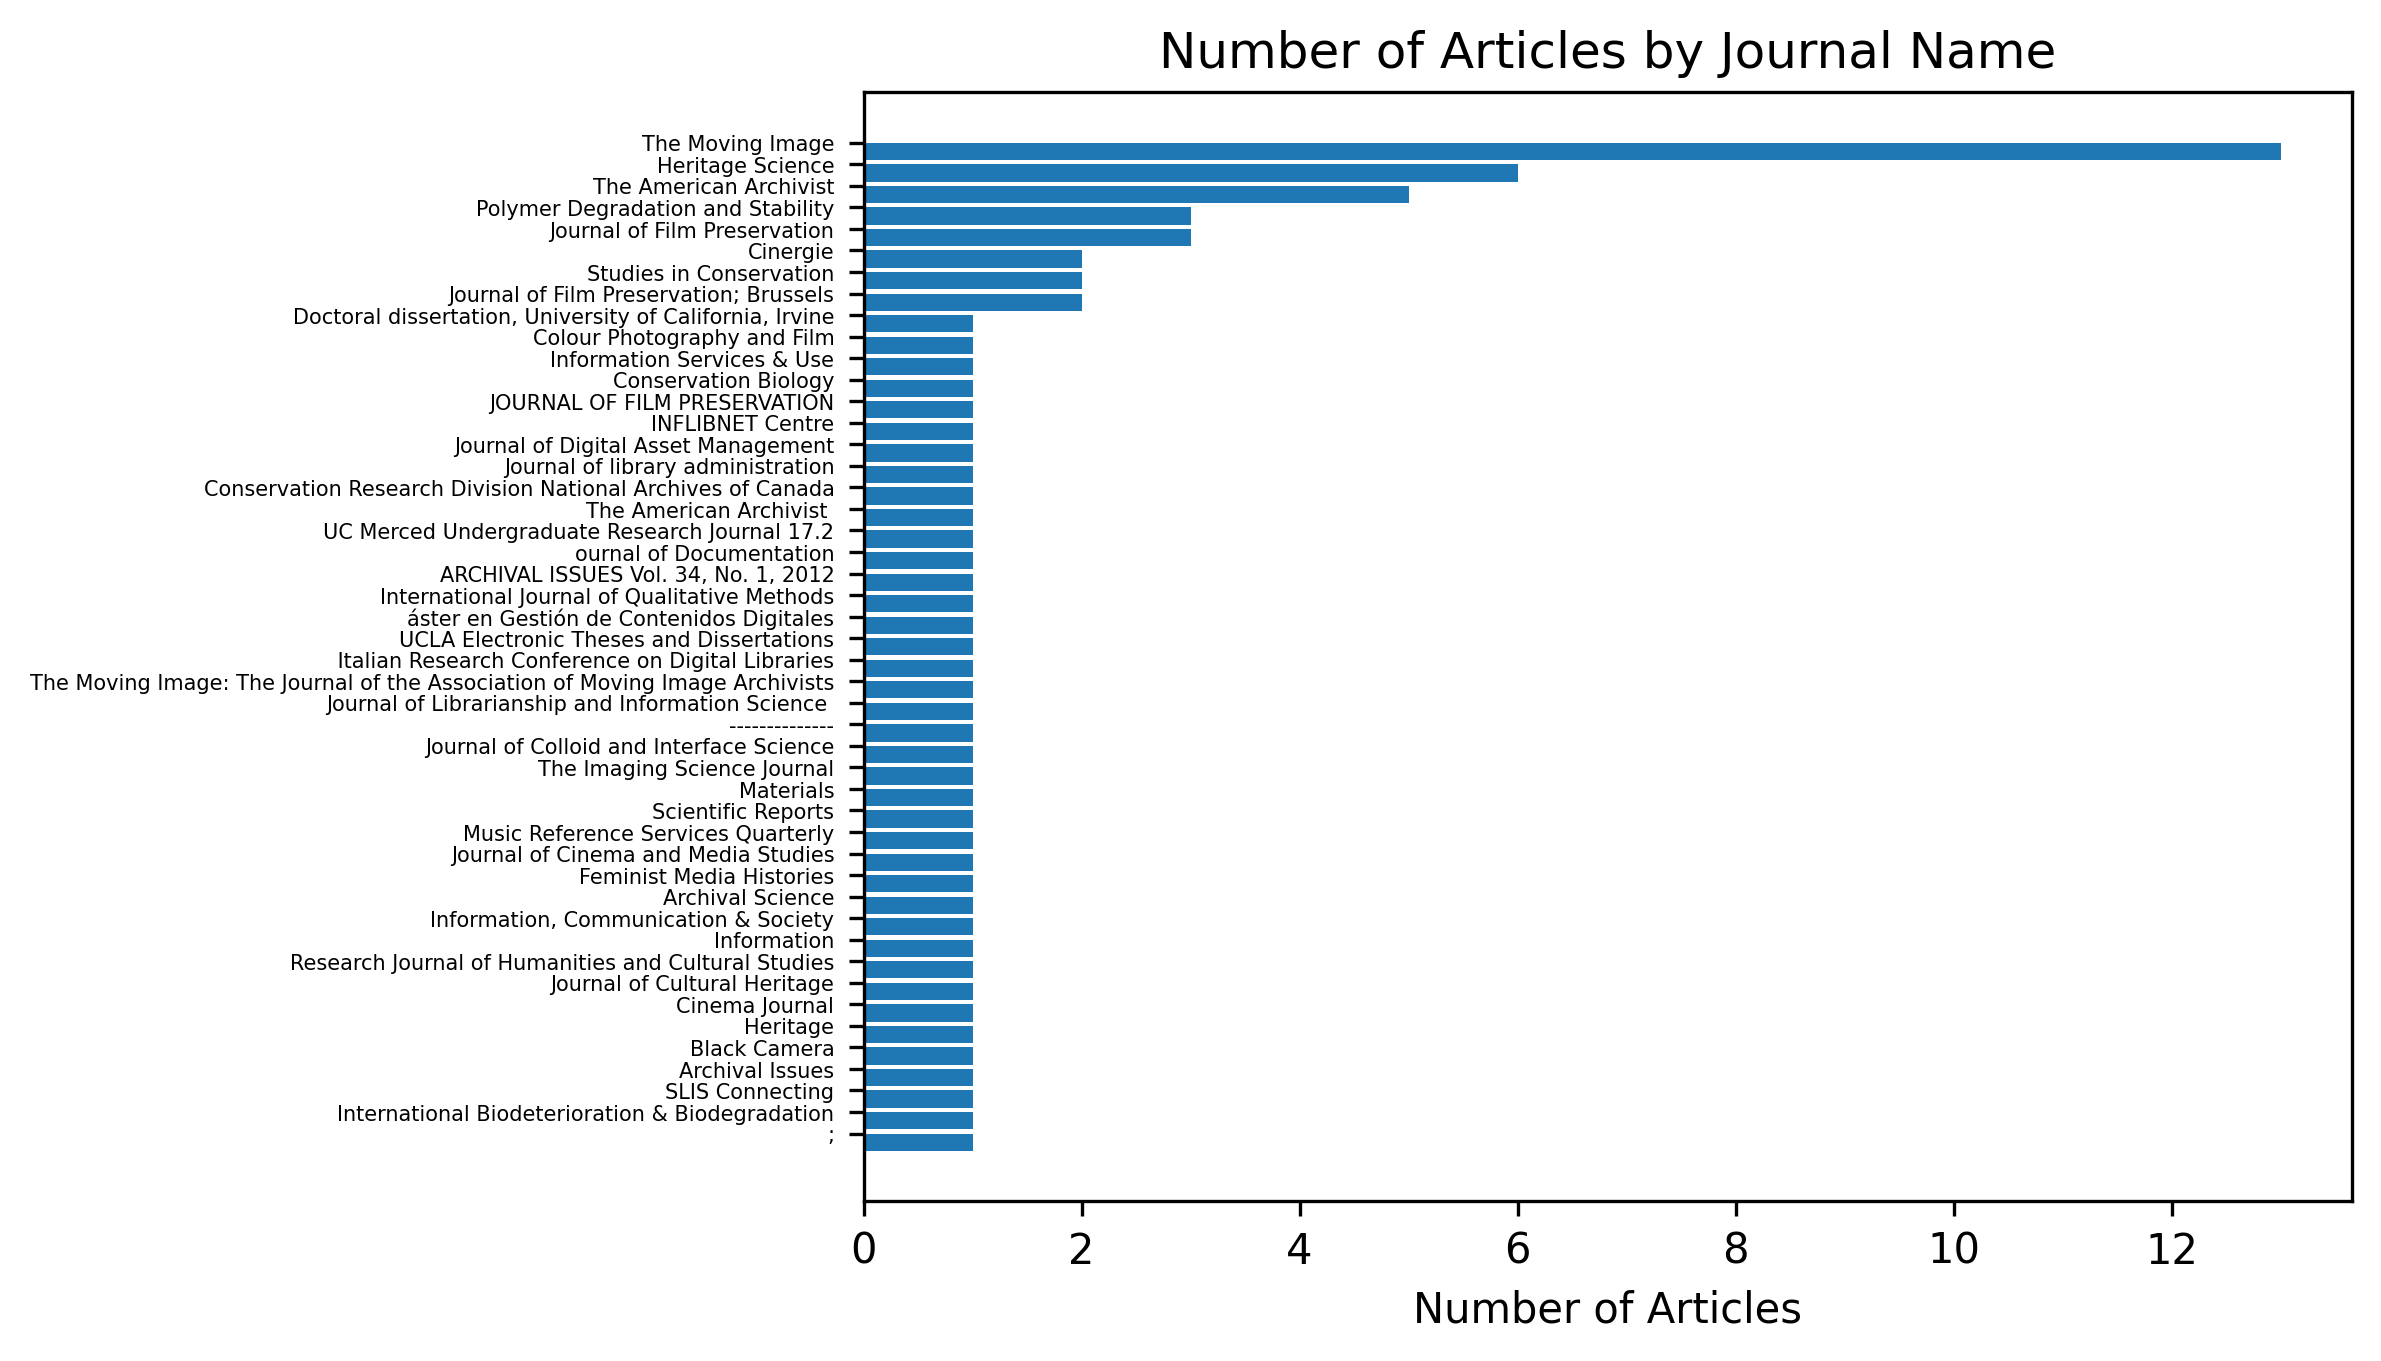
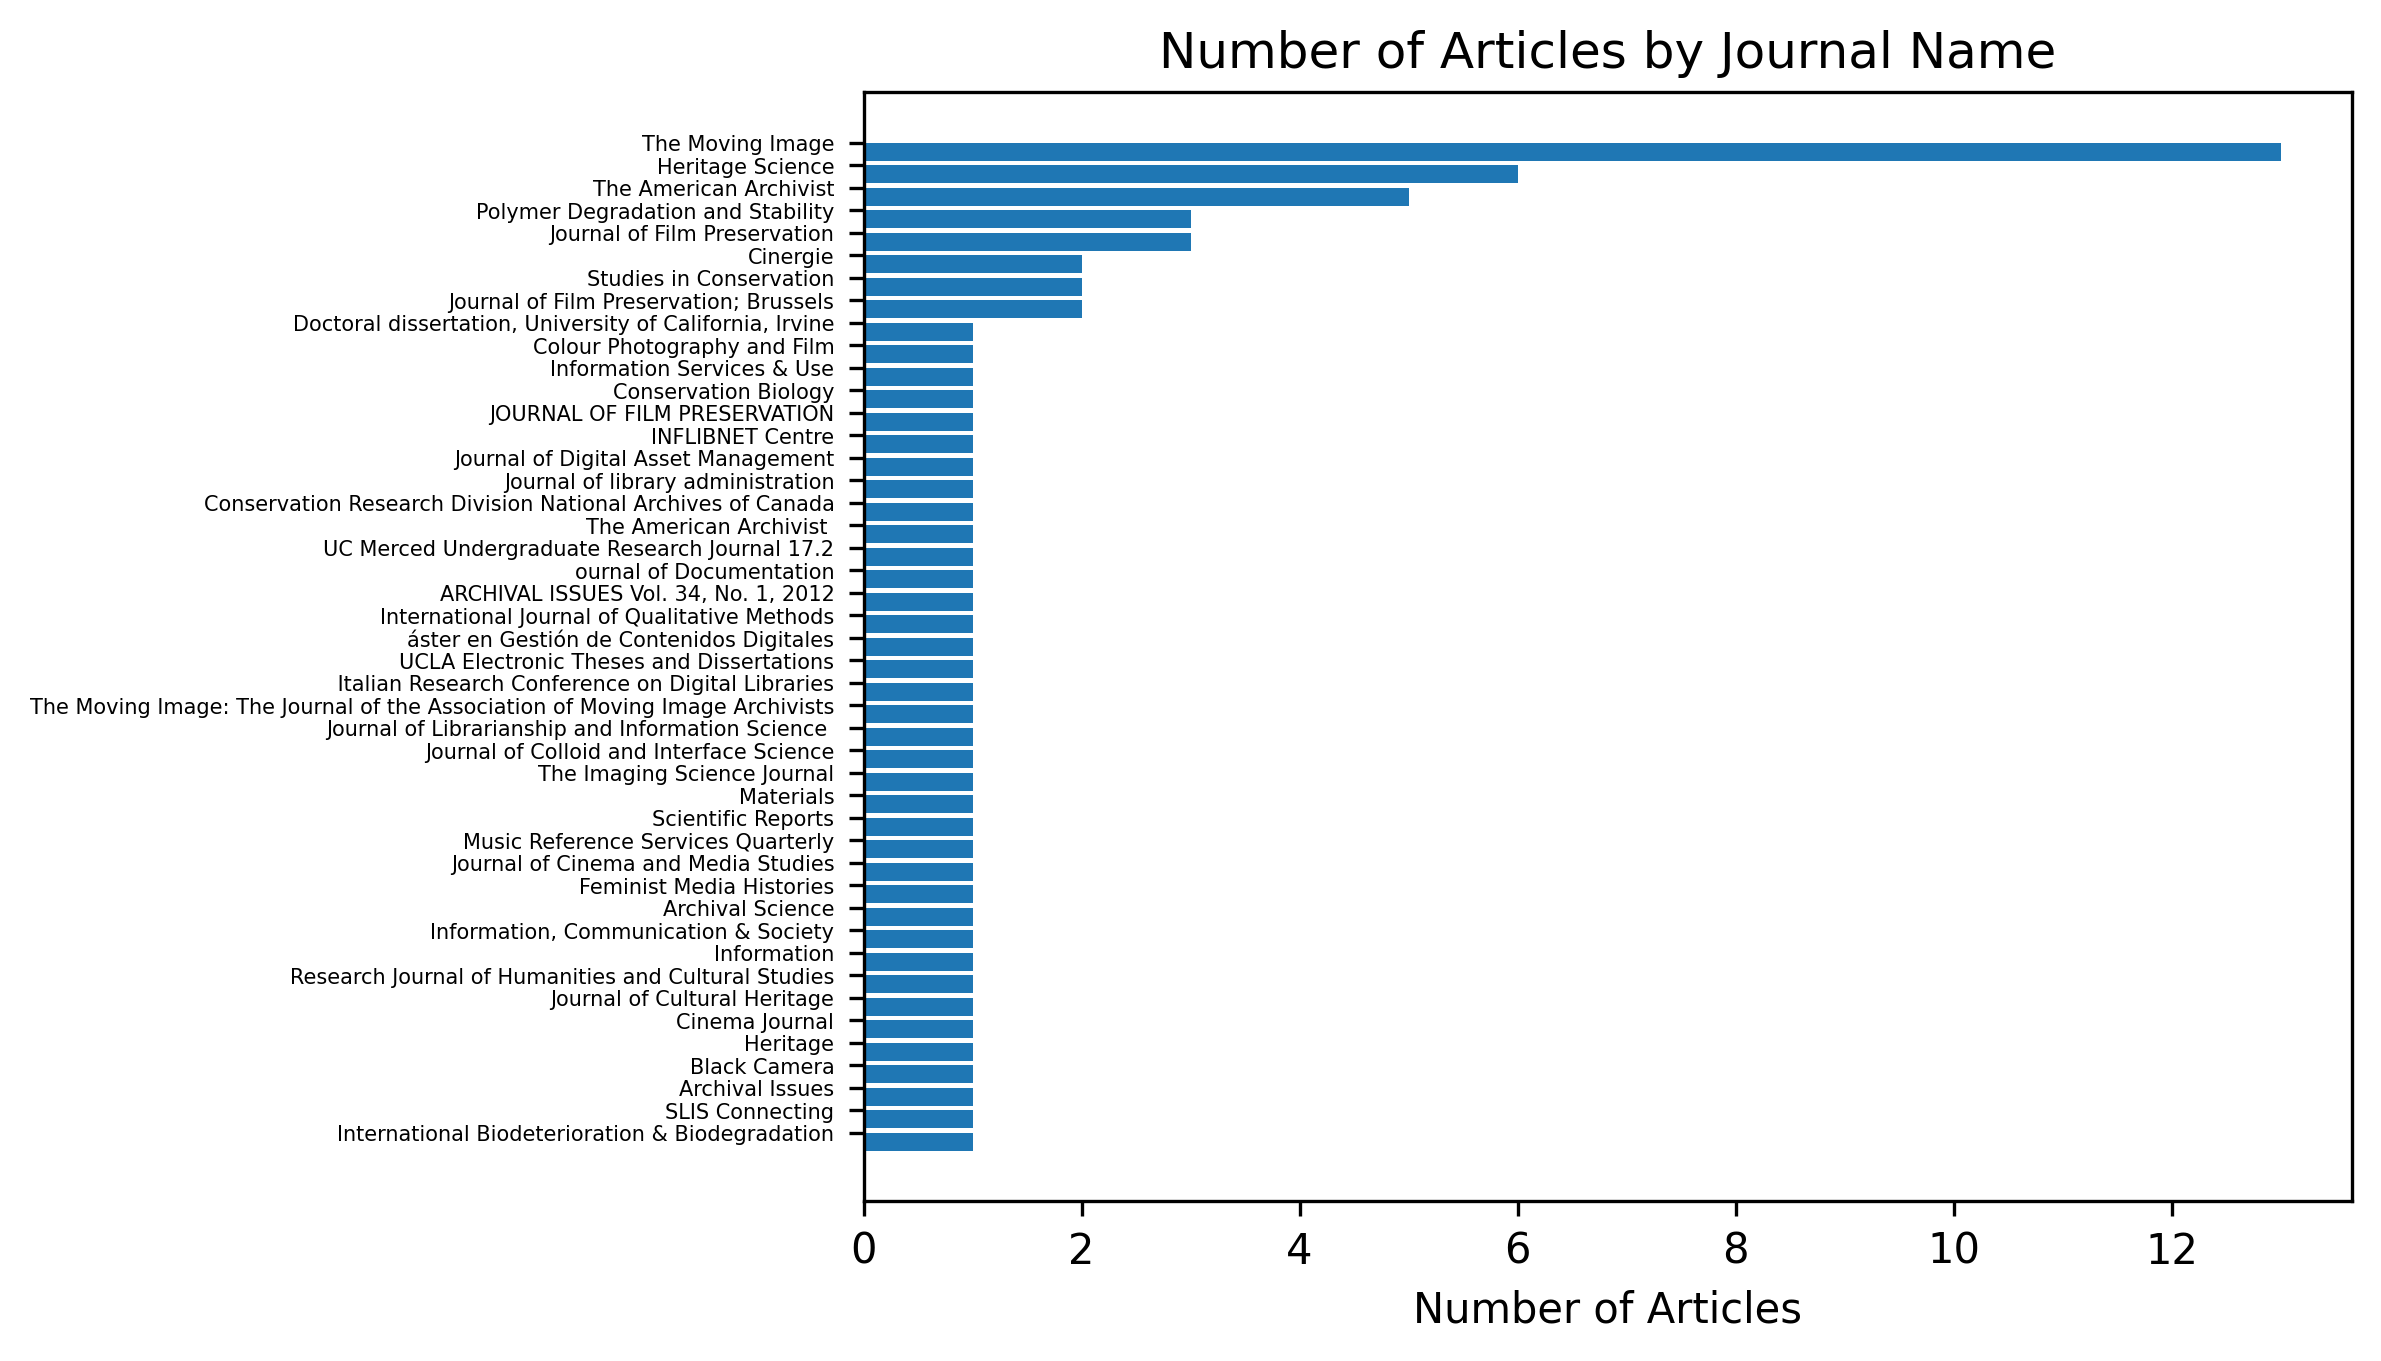
Added new plots with code

Changed region(s): [[0.0, 0.1234, 0.5905, 0.8332]]

diff --git a/main.py b/main.py
@@ -26,8 +26,14 @@ df = spreadsheet_to_object(sheet)
 
 # Count
 fundingCount= df['Funding Source'].str.count('not specified')
+
 journalCount= df['Journal Name'].value_counts()
-print(journalCount)
+journalCount = journalCount[~journalCount.index.str.contains('-')]
+
+# Remove entries that aren't journal names
+journalCount = journalCount[journalCount.index.str.len() > 5]
+
+# Skip bad data!
 ns_total = fundingCount.sum(skipna=True)
 total = len(fundingCount)
 
@@ -38,8 +44,10 @@ plt.show()
 
 fig = plt.gcf()
 
+# Save Plot
 plt.savefig("FundingSourcePlot.png", dpi=300, bbox_inches='tight')
 plt.close()
+
 # Bar of Journal Names
 fig, ax = plt.subplots()
 ax.barh(journalCount.index, journalCount.values, align='edge', height=.8)
@@ -48,7 +56,45 @@ ax.set_title('Number of Articles by Journal Name')
 ax.invert_yaxis()  # Highest values on top
 ax.set_yticklabels(journalCount.index, fontsize=5)  
 
-
+# Save Plot
 fig = plt.gcf()
 plt.savefig("JournalNamePlot.png", dpi=300, bbox_inches='tight')
+plt.close()
+
+# Bar Chart of Publication Years
+publication_years = df['Publication Year'].dropna()
+publication_years = publication_years[publication_years.apply(lambda x: str(x).isdigit())]
+publication_years = publication_years.astype(int)
+publication_years = publication_years.value_counts().sort_index()
+fig, ax = plt.subplots()
+ax.bar(publication_years.index.astype(str), publication_years.values, align='edge', width=0.8)
+
+# Space out x-axis labels
+ax.set_xticks(np.arange(len(publication_years.index)))
+ax.set_xticklabels(publication_years.index.astype(str), rotation=45, ha='right')
+ax.set_xlabel('Publication Year')
+ax.set_ylabel('Number of Articles')
+ax.set_title('Number of Articles by Publication Year')
+
+# Save Plot
+fig = plt.gcf()
+plt.savefig("PublicationYearPlot.png", dpi=300, bbox_inches='tight')
+plt.close() 
+
+# Pull Data Deposited
+data_deposited = df['Data Deposited? (Use Federer, et al 2018 categories)'].str.get_dummies(sep=';').sum()
+labels = data_deposited.index
+sizes = data_deposited.values
+
+# Create bar chart for Data Deposited
+fig, ax = plt.subplots()
+ax.barh(labels, sizes, align='edge', height=.8)
+ax.set_xlabel('Number of Articles')
+ax.set_title('Number of Articles by Data Deposited Categories')
+ax.invert_yaxis()  # Highest values on top
+ax.set_yticklabels(labels, fontsize=5)
+
+# Save Plot
+fig = plt.gcf()
+plt.savefig("DataDepositedPlot.png", dpi=300, bbox_inches='tight')
 plt.close()
